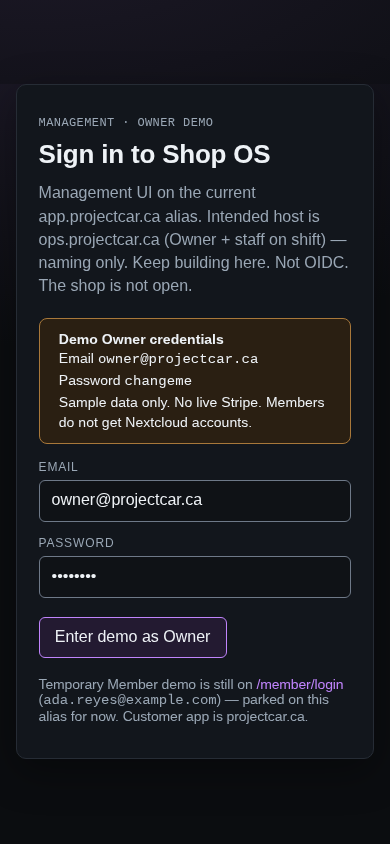
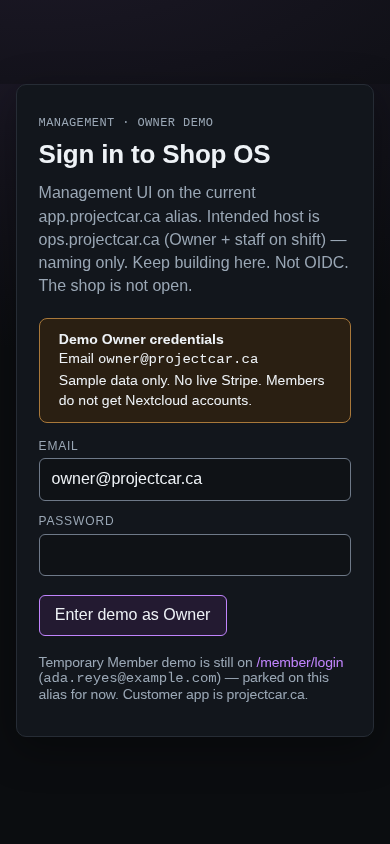
Reject the demo owner password outside dev mode [D4 · S4 C3 R4 T4] (#337)
* Reject the demo owner password outside dev mode

Owner login now returns invalid_credentials for the default password
changeme unless SHOP_DEV_MODE is on. Login screens pre-fill and show
that password only when SHOP_DEMO_LOGIN_HINTS=true, via
showDemoLoginHints(). Client login forms no longer contain the demo
password.

* Update 390 and 768 login screenshot goldens

The demo password hint is hidden unless SHOP_DEMO_LOGIN_HINTS=true.
Regenerated only login.png and member-login.png at 390 and 768 with
Playwright --update-snapshots=changed. 1440 goldens were already passing.

diff --git a/apps/project-car/web/lib/demo-login.test.ts b/apps/project-car/web/lib/demo-login.test.ts
@@ -1,0 +1,44 @@
+import assert from "node:assert/strict";
+import { readFileSync } from "node:fs";
+import { afterEach, test } from "node:test";
+import { join } from "node:path";
+
+import { showDemoLoginHints } from "./demo-login.ts";
+
+const webRoot = join(import.meta.dirname, "..");
+
+afterEach(() => {
+  delete process.env.SHOP_DEMO_LOGIN_HINTS;
+});
+
+test("showDemoLoginHints is true only when SHOP_DEMO_LOGIN_HINTS=true", () => {
+  const previousNodeEnv = process.env.NODE_ENV;
+  delete process.env.SHOP_DEMO_LOGIN_HINTS;
+  try {
+    process.env.NODE_ENV = "production";
+    assert.equal(showDemoLoginHints(), false);
+    process.env.NODE_ENV = "development";
+    assert.equal(showDemoLoginHints(), false);
+    process.env.SHOP_DEMO_LOGIN_HINTS = "1";
+    assert.equal(showDemoLoginHints(), false);
+    process.env.SHOP_DEMO_LOGIN_HINTS = "true";
+    assert.equal(showDemoLoginHints(), true);
+  } finally {
+    if (previousNodeEnv === undefined) delete process.env.NODE_ENV;
+    else process.env.NODE_ENV = previousNodeEnv;
+  }
+});
+
+test("login screens gate the demo password through showDemoLoginHints", () => {
+  for (const rel of ["app/login/page.tsx", "app/member/login/page.tsx"]) {
+    const text = readFileSync(join(webRoot, rel), "utf8");
+    assert.equal(text.includes("changeme"), false, rel);
+    assert.equal(text.includes("showDemoLoginHints"), true, rel);
+  }
+  for (const rel of ["app/login/login-form.tsx", "app/member/login/login-form.tsx"]) {
+    const text = readFileSync(join(webRoot, rel), "utf8");
+    assert.equal(text.includes("changeme"), false, rel);
+    assert.equal(text.includes("demo-login"), false, rel);
+    assert.equal(text.includes("defaultPassword"), true, rel);
+  }
+});

diff --git a/apps/project-car/web/app/member/login/page.tsx b/apps/project-car/web/app/member/login/page.tsx
@@ -1,5 +1,6 @@
 import Link from "next/link";
 
+import { demoPassword, showDemoLoginHints } from "../../../lib/demo-login";
 import { safeMemberNext } from "../../../lib/safe-next";
 import { MemberLoginForm } from "./login-form";
 
@@ -10,6 +11,7 @@ export default async function MemberLoginPage({
 }) {
   const params = await searchParams;
   const nextPath = safeMemberNext(params.next);
+  const hints = showDemoLoginHints();
 
   return (
     <main>
@@ -27,16 +29,21 @@ export default async function MemberLoginPage({
           <div>
             Email <code>ada.reyes@example.com</code>
           </div>
-          <div>
-            Password <code>changeme</code>
-          </div>
+          {hints ? (
+            <div>
+              Password <code>{demoPassword}</code>
+            </div>
+          ) : null}
           Ada is Premium (1500 tokens). Customer bays only. No live Stripe.
           Members do not get Nextcloud accounts.
         </div>
         {params.reason === "session" ? (
           <p className="banner error">Session expired. Sign in again.</p>
         ) : null}
-        <MemberLoginForm nextPath={nextPath} />
+        <MemberLoginForm
+          nextPath={nextPath}
+          {...(hints ? { defaultPassword: demoPassword } : {})}
+        />
         <p className="muted" style={{ marginTop: "1.2rem" }}>
           Management Owner demo is on <Link href="/login">/login</Link>.
         </p>

diff --git a/apps/project-car/web/app/login/page.tsx b/apps/project-car/web/app/login/page.tsx
@@ -1,5 +1,6 @@
 import Link from "next/link";
 
+import { demoPassword, showDemoLoginHints } from "../../lib/demo-login";
 import { safeOwnerNext } from "../../lib/safe-next";
 import { LoginForm } from "./login-form";
 
@@ -10,6 +11,7 @@ export default async function LoginPage({
 }) {
   const params = await searchParams;
   const nextPath = safeOwnerNext(params.next);
+  const hints = showDemoLoginHints();
 
   return (
     <main>
@@ -26,15 +28,20 @@ export default async function LoginPage({
           <div>
             Email <code>owner@projectcar.ca</code>
           </div>
-          <div>
-            Password <code>changeme</code>
-          </div>
+          {hints ? (
+            <div>
+              Password <code>{demoPassword}</code>
+            </div>
+          ) : null}
           Sample data only. No live Stripe. Members do not get Nextcloud accounts.
         </div>
         {params.reason === "session" ? (
           <p className="banner error">Session expired. Sign in again.</p>
         ) : null}
-        <LoginForm nextPath={nextPath} />
+        <LoginForm
+          nextPath={nextPath}
+          {...(hints ? { defaultPassword: demoPassword } : {})}
+        />
         <p className="muted" style={{ marginTop: "1.2rem" }}>
           Temporary Member demo is still on{" "}
           <Link href="/member/login">/member/login</Link>{" "}

diff --git a/apps/project-car/web/app/member/login/login-form.tsx b/apps/project-car/web/app/member/login/login-form.tsx
@@ -4,7 +4,13 @@ import { useActionState } from "react";
 
 import { memberLoginAction, type MemberLoginState } from "./actions";
 
-export function MemberLoginForm({ nextPath }: { nextPath: string }) {
+export function MemberLoginForm({
+  nextPath,
+  defaultPassword,
+}: {
+  nextPath: string;
+  defaultPassword?: string;
+}) {
   const [state, action, pending] = useActionState<MemberLoginState, FormData>(
     memberLoginAction,
     null,
@@ -29,7 +35,7 @@ export function MemberLoginForm({ nextPath }: { nextPath: string }) {
         type="password"
         autoComplete="current-password"
         required
-        defaultValue="changeme"
+        defaultValue={defaultPassword ?? ""}
       />
       {state?.message ? <p className="banner error">{state.message}</p> : null}
       <div className="actions">

diff --git a/apps/project-car/web/app/login/login-form.tsx b/apps/project-car/web/app/login/login-form.tsx
@@ -4,7 +4,13 @@ import { useActionState } from "react";
 
 import { loginAction, type LoginState } from "./actions";
 
-export function LoginForm({ nextPath }: { nextPath: string }) {
+export function LoginForm({
+  nextPath,
+  defaultPassword,
+}: {
+  nextPath: string;
+  defaultPassword?: string;
+}) {
   const [state, action, pending] = useActionState<LoginState, FormData>(loginAction, null);
 
   return (
@@ -26,7 +32,7 @@ export function LoginForm({ nextPath }: { nextPath: string }) {
         type="password"
         autoComplete="current-password"
         required
-        defaultValue="changeme"
+        defaultValue={defaultPassword ?? ""}
       />
       {state?.message ? <p className="banner error">{state.message}</p> : null}
       <div className="actions">

diff --git a/apps/project-car/web/lib/demo-login.ts b/apps/project-car/web/lib/demo-login.ts
@@ -1,0 +1,7 @@
+/** Shared demo password. Server pages may show it only when showDemoLoginHints() is on. */
+export const demoPassword = "changeme";
+
+/** True only when SHOP_DEMO_LOGIN_HINTS=true. NODE_ENV is not a bypass. */
+export function showDemoLoginHints(): boolean {
+  return process.env["SHOP_DEMO_LOGIN_HINTS"] === "true";
+}

diff --git a/apps/project-car/api/tests/test_demo_password.py b/apps/project-car/api/tests/test_demo_password.py
@@ -49,7 +49,9 @@ def test_seed_main_refuses_public_host(monkeypatch) -> None:
 
 
 def test_default_api_secrets_refused_off_loopback(client: TestClient, monkeypatch) -> None:
+    monkeypatch.setattr(get_settings(), "shop_dev_mode", True)
     monkeypatch.setenv("SHOP_HOST", "127.0.0.1")
+    monkeypatch.setenv("SHOP_DEV_MODE", "1")
     loopback = client.get("/me", headers={"Authorization": "Bearer dev-owner-secret"})
     assert loopback.status_code == 200, loopback.text
 
@@ -176,7 +178,11 @@ def test_login_locks_after_repeated_failures(client: TestClient) -> None:
     assert still_locked.json()["error"]["code"] == "rate_limited"
 
 
-def test_correct_password_after_five_failures_logs_in(client: TestClient) -> None:
+def test_correct_password_after_five_failures_logs_in(
+    client: TestClient, monkeypatch
+) -> None:
+    monkeypatch.setattr(get_settings(), "shop_dev_mode", True)
+    monkeypatch.setenv("SHOP_DEV_MODE", "1")
     wrong = {"email": "owner@projectcar.ca", "password": "wrong-guess"}
     # The sixth attempt is still open. Success clears that account key.
     for _ in range(5):

diff --git a/apps/project-car/api/tests/test_owner_login_password.py b/apps/project-car/api/tests/test_owner_login_password.py
@@ -1,0 +1,32 @@
+from __future__ import annotations
+
+from fastapi.testclient import TestClient
+
+from app.config import get_settings
+
+OWNER = {"email": "owner@projectcar.ca", "password": "changeme"}
+
+
+def test_default_owner_password_rejected_without_dev_mode(
+    client: TestClient, monkeypatch
+) -> None:
+    monkeypatch.delenv("SHOP_DEV_MODE", raising=False)
+    get_settings.cache_clear()
+    assert get_settings().shop_dev_mode is False
+    denied = client.post("/auth/login", json=OWNER)
+    assert denied.status_code == 401, denied.text
+    assert denied.json()["error"]["code"] == "invalid_credentials"
+
+
+def test_default_owner_password_accepted_when_shop_dev_mode(
+    client: TestClient, monkeypatch
+) -> None:
+    monkeypatch.setenv("SHOP_DEV_MODE", "1")
+    get_settings.cache_clear()
+    assert get_settings().shop_dev_mode is True
+    try:
+        accepted = client.post("/auth/login", json=OWNER)
+    finally:
+        get_settings.cache_clear()
+    assert accepted.status_code == 200, accepted.text
+    assert accepted.json()["role"] == "owner"

diff --git a/apps/project-car/api/app/routers/auth.py b/apps/project-car/api/app/routers/auth.py
@@ -60,6 +60,9 @@ def login(
     settings: AppSettings,
 ) -> PrincipalOut:
     client_ip, stamp = _guard_login(request, settings, "owner", str(body.email))
+    # Default demo owner password is the same 401 as a wrong password outside dev mode.
+    if body.password == "changeme" and not settings.shop_dev_mode:
+        raise _invalid_credentials()
     if not credentials_match(settings, body.email, body.password):
         raise _invalid_credentials()
     token = create_session_token(settings, body.email)
